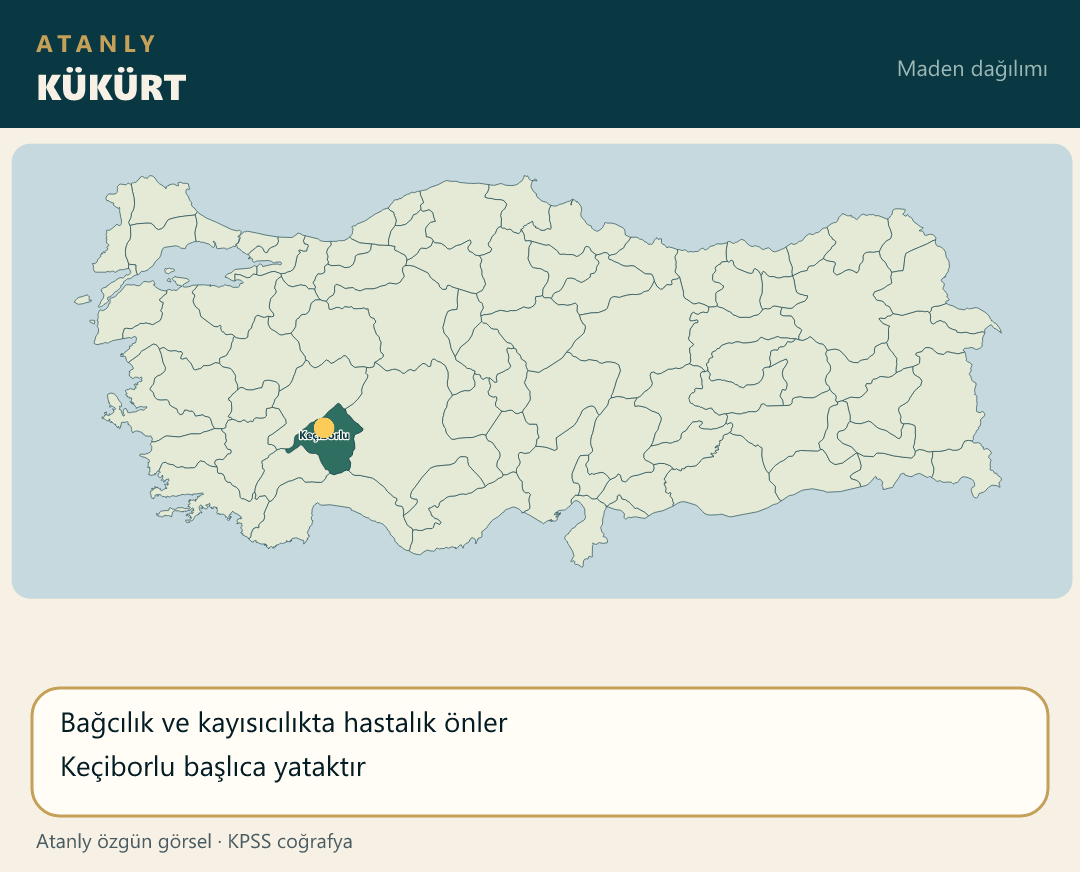
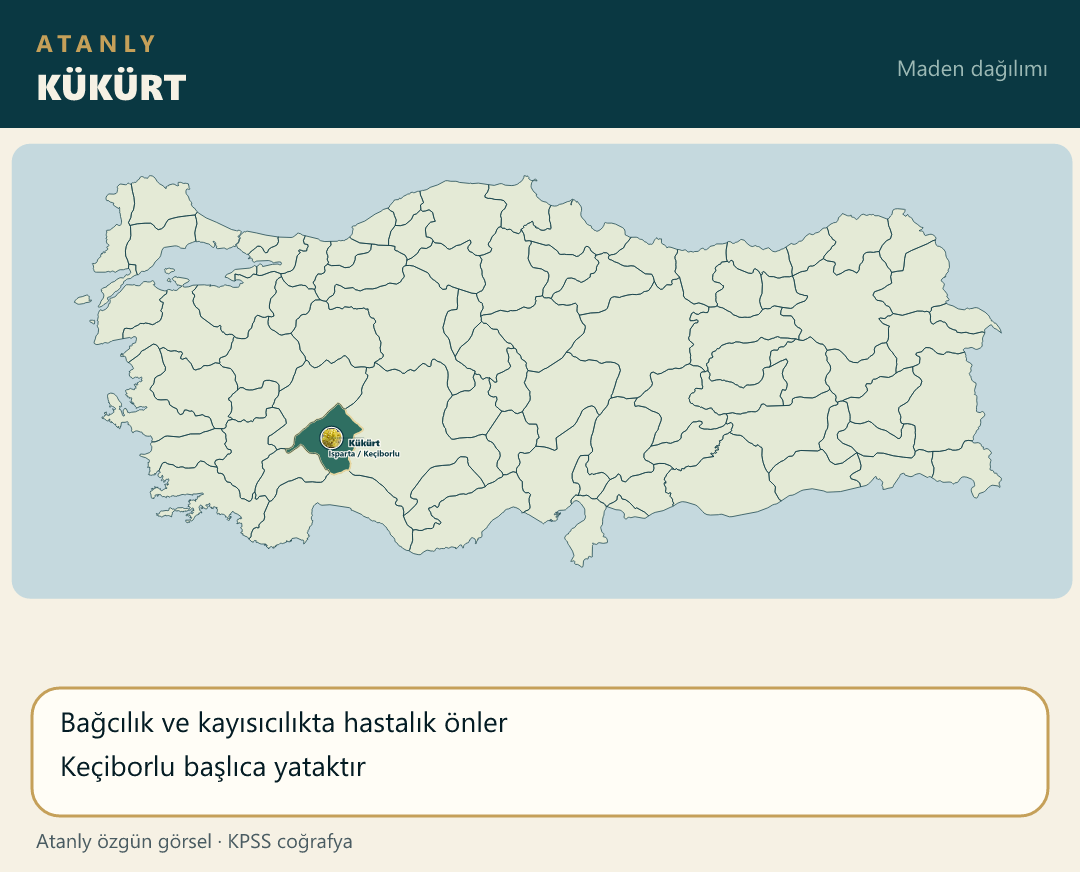
Place the sulfur photo on the Isparta Keçiborlu land-center pin.

Changed region(s): [[0.2444, 0.4644, 0.3667, 0.5264], [0.825, 0.4025, 0.8556, 0.4335]]

diff --git a/scripts/build-atanly-maps.js b/scripts/build-atanly-maps.js
@@ -1074,8 +1074,10 @@ function main() {
             facts: ["Volkanik, camsı yapı", "Gıda, inşaat, boya, deterjan"] },
         { file: "maden_pomza.png", title: "POMZA TAŞI", iller: ["Nevşehir", "Kayseri"],
             facts: ["Tarım ve inşaat", "Kapadokya volkanizması"] },
-        { file: "maden_kukurt.png", title: "KÜKÜRT", iller: ["Isparta"],
-            yazilar: ["Keçiborlu"],
+        { file: "maden_kukurt.png", title: "KÜKÜRT", urun: "Kükürt",
+            noktalar: [
+                { il: "Isparta", ilce: "Keçiborlu", ldx: 32, ldy: 8 }
+            ],
             facts: ["Bağcılık ve kayısıcılıkta hastalık önler", "Keçiborlu başlıca yataktır"] },
         { file: "maden_manganez.png", title: "MANGANEZ", iller: ["Zonguldak"],
             yazilar: ["Ereğli"],

diff --git a/notlar/cografya-21-not.js b/notlar/cografya-21-not.js
@@ -2,7 +2,7 @@
 (function () {
     function harita(src, alt) {
         return '<div class="mt-4 overflow-hidden rounded-xl border border-blue-200 dark:border-blue-700/50 bg-white dark:bg-slate-800 p-2">' +
-            '<img src="./src/img/' + src + '?v=25" alt="' + alt + ' Haritası" class="w-full h-auto rounded-lg object-contain" loading="lazy">' +
+            '<img src="./src/img/' + src + '?v=26" alt="' + alt + ' Haritası" class="w-full h-auto rounded-lg object-contain" loading="lazy">' +
             "</div>";
     }
 

diff --git a/index.html b/index.html
@@ -119,7 +119,7 @@
     <script src="notlar/cografya-18-not.js?v=17"></script>
     <script src="notlar/cografya-19-not.js?v=25"></script>
     <script src="notlar/cografya-20-not.js?v=1"></script>
-    <script src="notlar/cografya-21-not.js?v=18"></script>
+    <script src="notlar/cografya-21-not.js?v=19"></script>
     <script src="notlar/cografya-22-not.js?v=1"></script>
     <script src="notlar/cografya-23-not.js?v=1"></script>
     <script src="notlar/cografya-24-not.js?v=1"></script>
